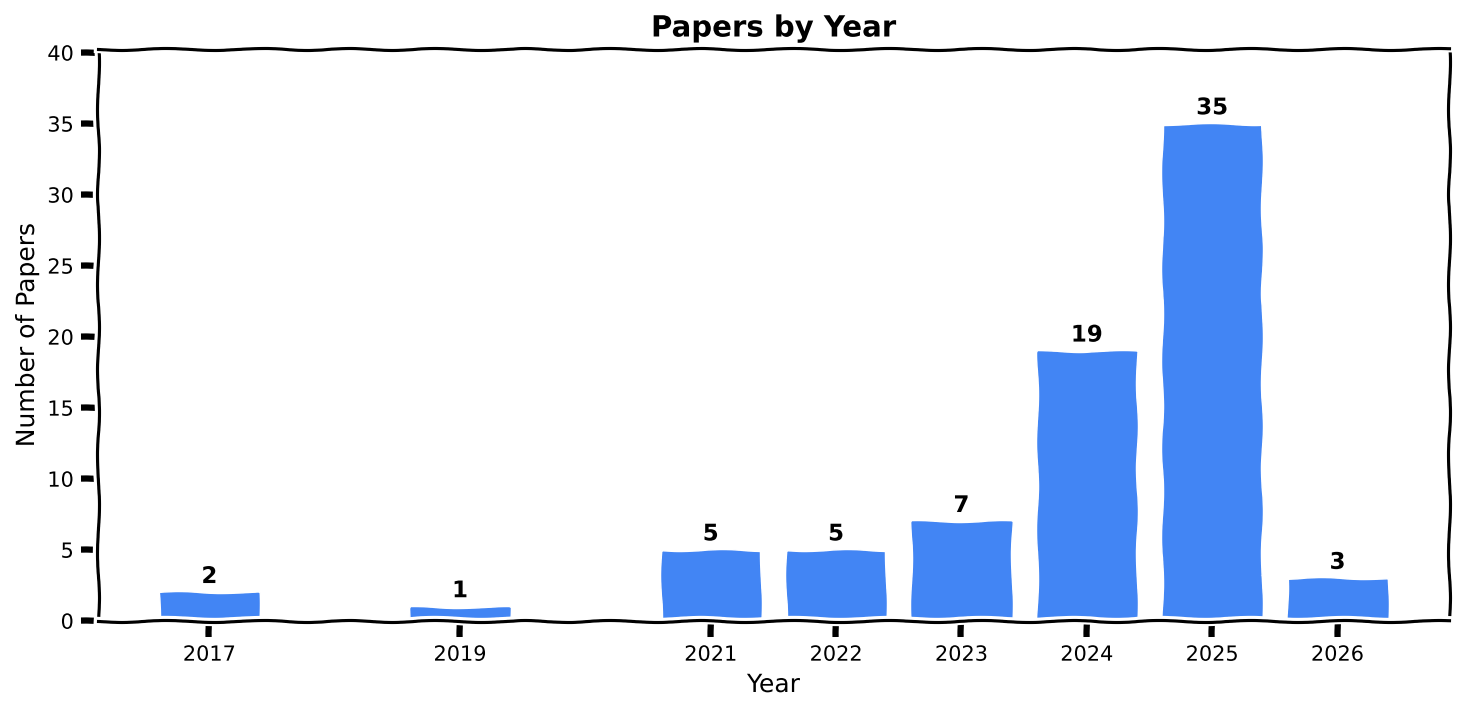
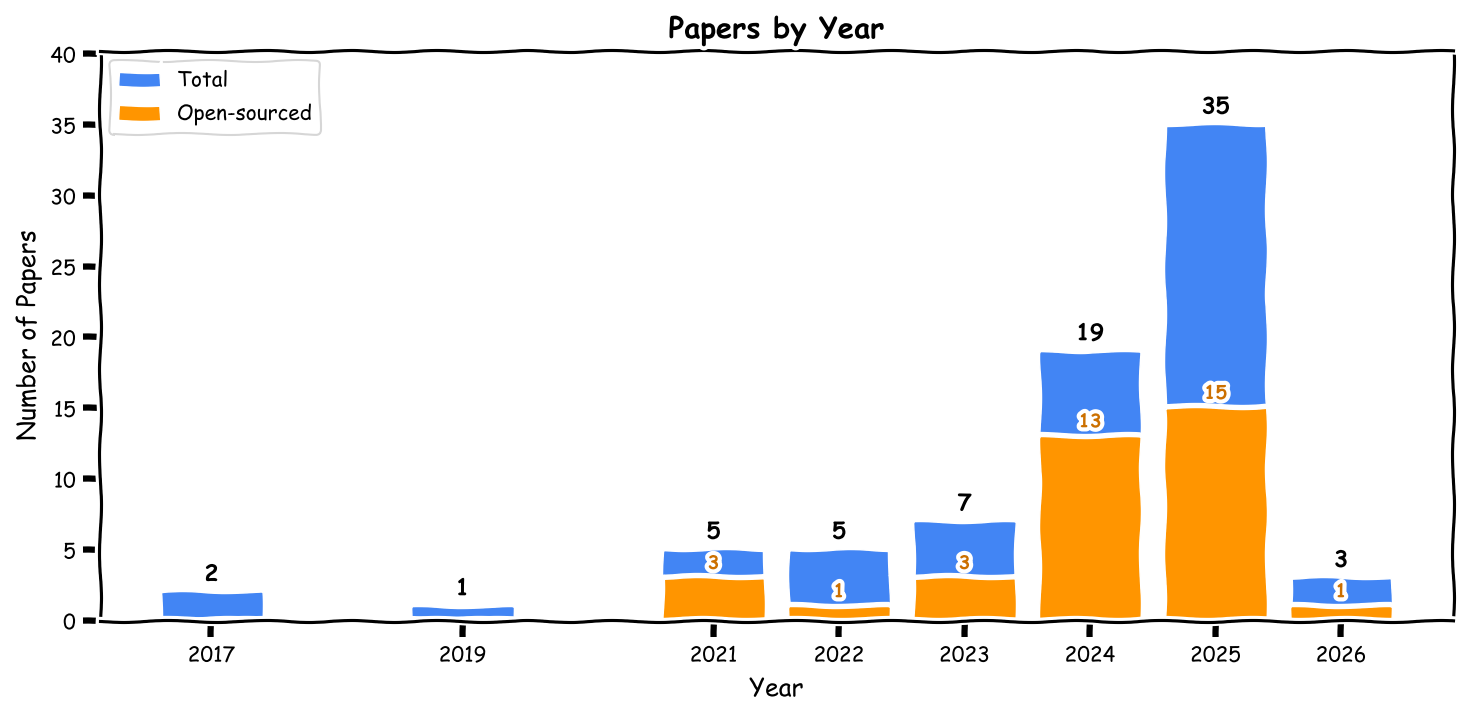
Add open-sourced papers sub-bar to chart (#67)
Show orange sub-bars within each year's total to indicate the number
of open-sourced papers with available code. Display both total count
above the bar and open-source count above the orange sub-bar.

Changed region(s): [[0.0, 0.0, 1.0, 0.9888], [0.707, 0.4326, 0.7684, 0.4944], [0.7992, 0.1236, 0.8607, 0.1545]]

diff --git a/.github/scripts/generate_papers_chart.py b/.github/scripts/generate_papers_chart.py
@@ -13,24 +13,25 @@ OUTPUT_PATH = 'assets/papers_by_year.png'
 
 
 def extract_year_counts(readme_content):
-    """Extract year counts from the README table."""
+    """Extract year counts and open-sourced counts from the README table."""
     try:
         start_index = readme_content.index(TABLE_START_MARKER)
         end_index = readme_content.index(TABLE_END_MARKER)
     except ValueError:
         print(f"Error: Markers not found.")
-        return {}
+        return {}, {}
 
     content_between_markers = readme_content[start_index + len(TABLE_START_MARKER):end_index]
     table_lines = content_between_markers.strip().split('\n')
 
     if len(table_lines) < 3:
-        return {}
+        return {}, {}
 
     # Skip header and separator
     data_rows = table_lines[2:]
 
     year_counts = defaultdict(int)
+    open_source_counts = defaultdict(int)
     for row in data_rows:
         # Extract year from the third column (Venue & Year)
         # Format: "Venue YYYY" - take the last element after splitting by space
@@ -41,27 +42,44 @@ def extract_year_counts(readme_content):
             if year_match:
                 year = int(year_match.group())
                 year_counts[year] += 1
+                # Check if open-sourced (has [Code] in the last column)
+                if len(cells) >= 5 and '[Code]' in cells[4]:
+                    open_source_counts[year] += 1
 
-    return dict(sorted(year_counts.items()))
+    years = sorted(year_counts.keys())
+    year_counts = {y: year_counts[y] for y in years}
+    open_source_counts = {y: open_source_counts[y] for y in years}
+    return year_counts, open_source_counts
 
 
-def generate_bar_chart(year_counts, output_path):
-    """Generate a bar chart from year counts."""
+def generate_bar_chart(year_counts, open_source_counts, output_path):
+    """Generate a bar chart from year counts with open-source sub-bars."""
     if not year_counts:
         print("No data to plot.")
         return
 
     years = list(year_counts.keys())
     counts = list(year_counts.values())
+    os_counts = [open_source_counts.get(y, 0) for y in years]
 
     with plt.xkcd():
         plt.figure(figsize=(10, 5))
-        bars = plt.bar(years, counts, color='#4285f4', edgecolor='white', linewidth=0.7)
+        # Draw total papers bar (blue)
+        bars = plt.bar(years, counts, color='#4285f4', edgecolor='white', linewidth=0.7, label='Total')
+        # Draw open-sourced papers bar (orange) on top
+        plt.bar(years, os_counts, color='#ff9500', edgecolor='white', linewidth=0.7, label='Open-sourced')
 
-        # Add count labels on top of each bar
+        # Add count labels on top of each bar (total count)
         for bar, count in zip(bars, counts):
             plt.text(bar.get_x() + bar.get_width() / 2, bar.get_height() + 0.3,
                      str(count), ha='center', va='bottom', fontsize=11, fontweight='bold')
+
+        # Add open-source count labels inside the bar, above the orange sub-bar
+        for bar, os_count in zip(bars, os_counts):
+            if os_count > 0:
+                plt.text(bar.get_x() + bar.get_width() / 2, os_count + 0.3,
+                         str(os_count), ha='center', va='bottom', fontsize=9,
+                         fontweight='bold', color='#cc7000')
 
         plt.xlabel('Year', fontsize=12)
         plt.ylabel('Number of Papers', fontsize=12)
@@ -70,6 +88,9 @@ def generate_bar_chart(year_counts, output_path):
         # Set integer ticks for x-axis
         plt.xticks(years, [str(y) for y in years], fontsize=10)
         plt.yticks(fontsize=10)
+
+        # Add legend
+        plt.legend(loc='upper left', fontsize=10)
 
         # Add some padding at the top for labels
         plt.ylim(0, max(counts) * 1.15)
@@ -87,11 +108,12 @@ def main():
         content = f.read()
 
     # Extract year counts
-    year_counts = extract_year_counts(content)
+    year_counts, open_source_counts = extract_year_counts(content)
     print(f"Year counts: {year_counts}")
+    print(f"Open-source counts: {open_source_counts}")
 
     # Generate chart
-    generate_bar_chart(year_counts, OUTPUT_PATH)
+    generate_bar_chart(year_counts, open_source_counts, OUTPUT_PATH)
 
 
 if __name__ == '__main__':
